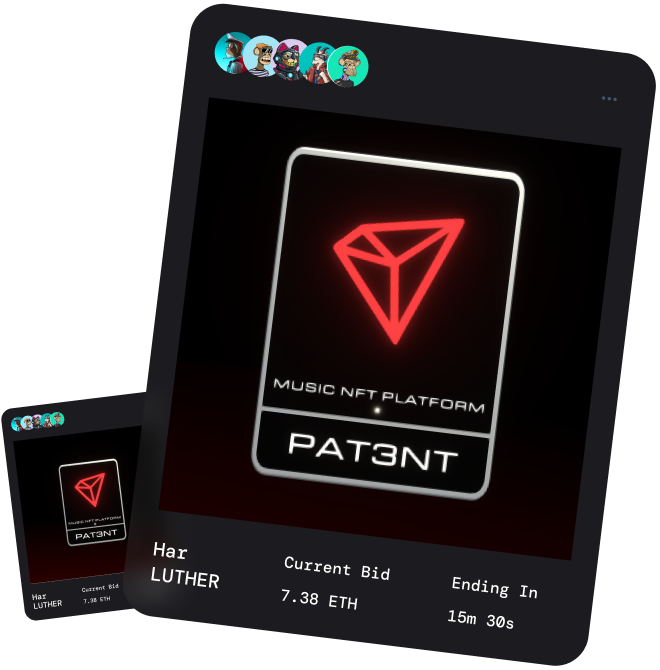
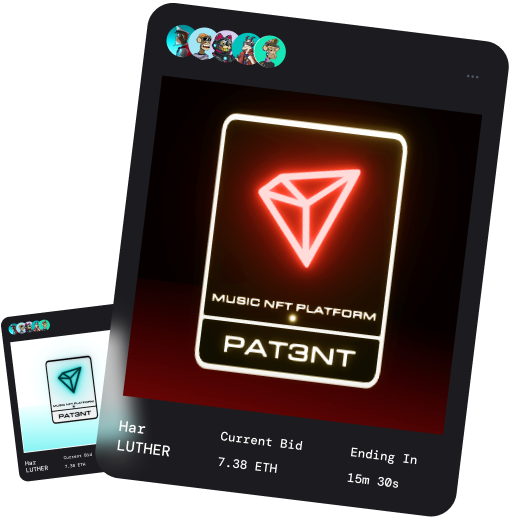
images changed

diff --git a/components/footer.js b/components/footer.js
@@ -6,13 +6,13 @@ const Footer = () => {
     return (
         <div className={styles.container}>
             <div style={{ flex: 1 }}>
-                <img src="http://localhost:3000/images/Logo.png" />
+                <img src="https://pat3nt.netlify.app/images/Logo.png" className={styles.logo}/>
                 <div className={styles.text}>Unique NFTs Marketplace. rare and authentic <br />digital creation</div>
                 <div className={styles.social}>
-                    <img src="http://localhost:3000/images/fb.svg" />
-                    <img src="http://localhost:3000/images/discord.svg" />
-                    <img src="http://localhost:3000/images/instagram.svg" />
-                    <img src="http://localhost:3000/images/yt.svg" />
+                    <img src="https://pat3nt.netlify.app/images/fb.svg" />
+                    <img src="https://pat3nt.netlify.app/images/discord.svg" />
+                    <img src="https://pat3nt.netlify.app/images/instagram.svg" />
+                    <img src="https://pat3nt.netlify.app/images/yt.svg" />
                 </div>
             </div>
             <div className={styles.actionColumn}>

diff --git a/components/layout.js b/components/layout.js
@@ -11,7 +11,7 @@ const Layout = ({ children }) => {
         <div>
             <Head>
                 <meta name="viewport" content="width=device-width, initial-scale=1" />
-                <title> Patent NFT App </title>
+                <title>Pat3nt</title>
                 <link rel="preconnect" href="https://fonts.googleapis.com" />
                 <link rel="preconnect" href="https://fonts.gstatic.com" crossorigin />
                 <link href="https://fonts.googleapis.com/css2?family=DM+Mono:ital,wght@0,300;0,400;0,500;1,300;1,400;1,500&display=swap" rel="stylesheet" />

diff --git a/components/navbar.js b/components/navbar.js
@@ -25,7 +25,7 @@ const Navbar = () => {
     <div className={styles.container}>
       <Link href="/">
         <img
-          src="http://localhost:3000/images/Logo.png"
+          src="https://pat3nt.netlify.app/images/Logo.png"
           className={styles.logo}
         />
       </Link>

diff --git a/styles/Footer.module.css b/styles/Footer.module.css
@@ -9,6 +9,12 @@
 
 }
 
+
+.logo {
+    object-fit: contain;
+    height: 60px;
+}
+
 .action {
     font-size: 19px;
     cursor: pointer;

diff --git a/styles/Navbar.module.css b/styles/Navbar.module.css
@@ -11,6 +11,7 @@
 
 .logo {
     object-fit: contain;
+    height: 60px;
 }
 
 .menu {
